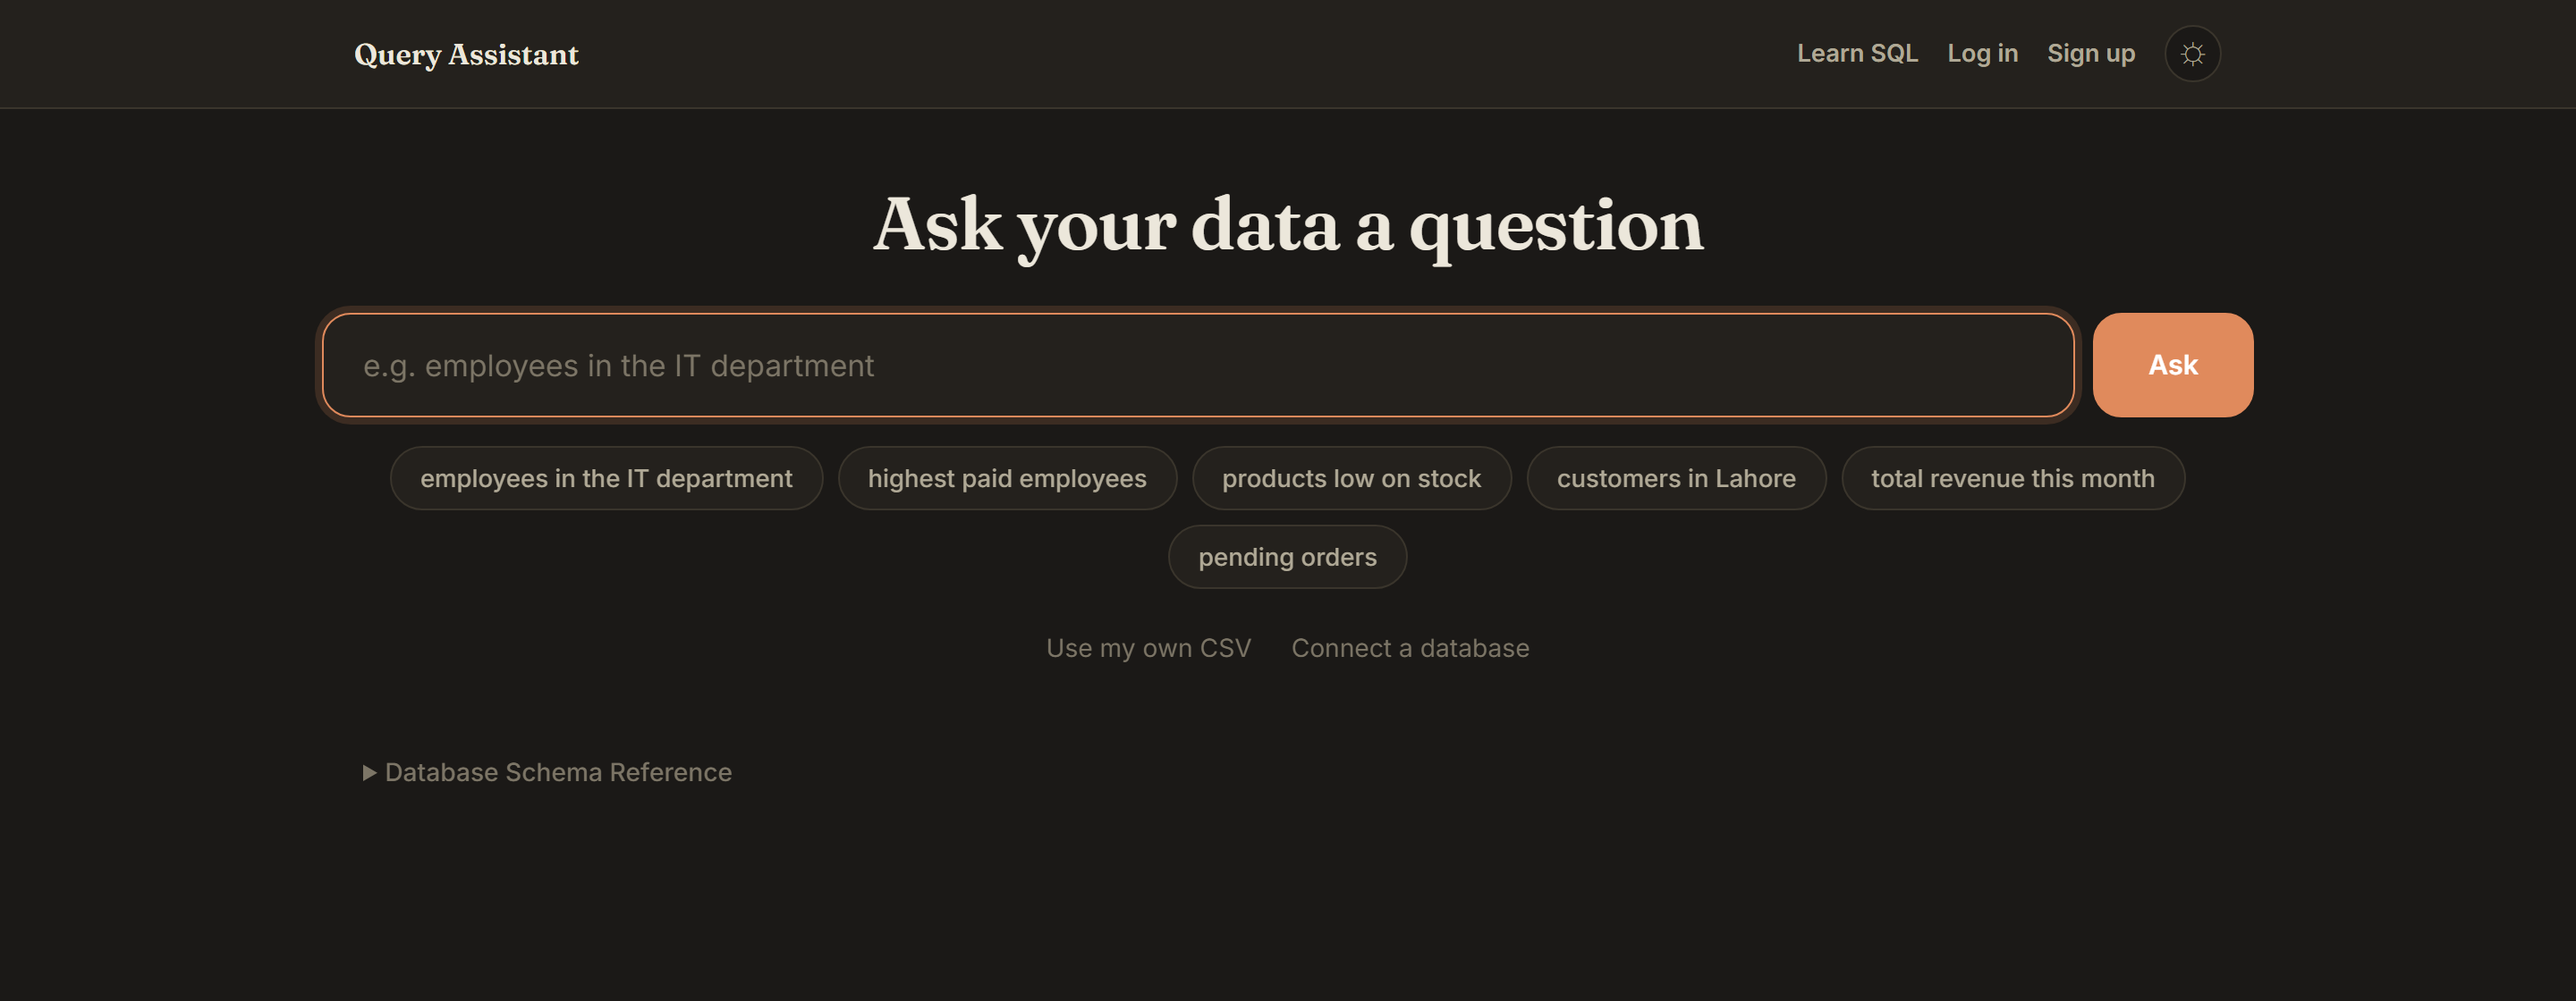
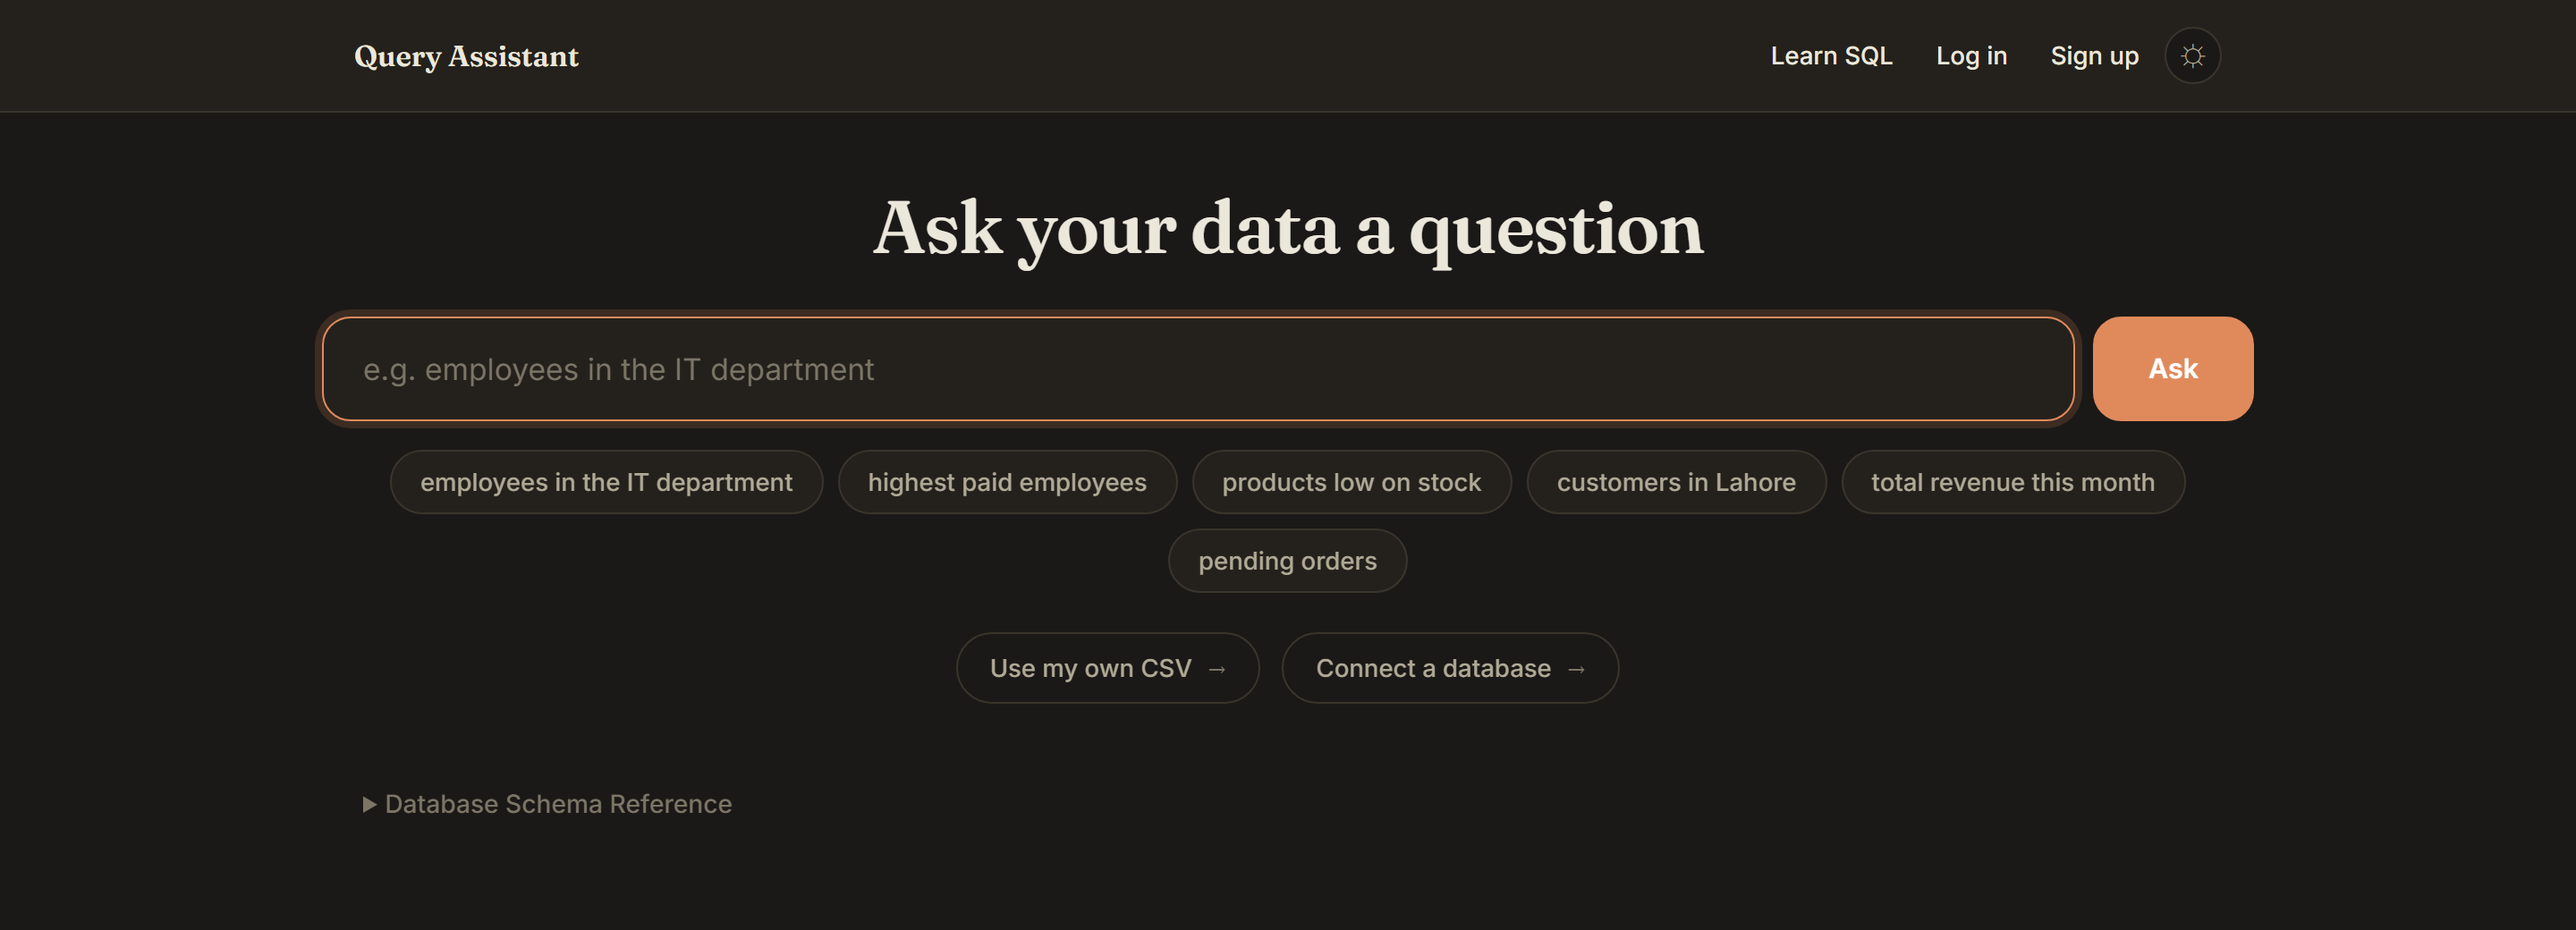
Make the secondary links look like controls again
Both rows of links were failing in the same way: nothing about them said they
could be clicked.

The two data-source links used text-faint, the colour reserved for de-emphasised
labels, and read as disabled text rather than as buttons. They're outlined pills
now. Unfilled and arrow-suffixed, though, because they sit directly under the
example chips and must not be mistaken for more of them — a chip runs a query in
place, these navigate somewhere else, and identical shapes for different actions
is a worse problem than being too quiet.

The nav links were text-soft with zero padding: low contrast and a hit area no
larger than the glyphs. Full-strength colour, real padding, and a hover fill, with
the gap between them reduced since the padding now provides the spacing.

diff --git a/frontend/static/css/style.css b/frontend/static/css/style.css
@@ -749,25 +749,30 @@ h1 + .subtitle {
 .topbar-actions {
     display: flex;
     align-items: center;
-    gap: 16px;
+    /* Small, because the links now carry their own padding for a hit area. */
+    gap: 4px;
     flex-wrap: wrap;
 }
 
 .topbar-link {
     font-family: 'Inter', sans-serif;
-    font-size: 0.85rem;
-    font-weight: 600;
-    color: var(--text-soft);
+    font-size: 0.86rem;
+    font-weight: 500;
+    color: var(--text);
     text-decoration: none;
     background: none;
     border: none;
-    padding: 0;
+    border-radius: 8px;
+    /* A real hit area, so these are comfortable to click rather than
+       pixel-hunted, and the hover has something to fill. */
+    padding: 6px 10px;
     cursor: pointer;
-    transition: color 0.15s;
+    transition: color 0.15s, background 0.15s;
 }
 
 .topbar-link:hover {
-    color: var(--accent);
+    color: var(--accent-hover);
+    background: var(--accent-bg);
 }
 
 .topbar-form {
@@ -944,20 +949,43 @@ body,
     display: flex;
     justify-content: center;
     flex-wrap: wrap;
-    gap: 22px;
+    gap: 12px;
     margin-bottom: 34px;
 }
 
+/* These sit directly under the example chips and must not read as more of them:
+   a chip runs a query in place, these go somewhere else. Hence the arrow and the
+   unfilled background — same family, different job. */
 .source-links a {
-    font-size: 0.88rem;
-    color: var(--text-faint);
+    display: inline-flex;
+    align-items: center;
+    gap: 8px;
+    font-size: 0.86rem;
+    font-weight: 500;
+    color: var(--text-soft);
     text-decoration: none;
-    border-bottom: 1px solid transparent;
-    padding-bottom: 1px;
-    transition: color 0.15s, border-color 0.15s;
+    background: transparent;
+    border: 1px solid var(--border);
+    border-radius: 999px;
+    padding: 8px 18px;
+    transition: color 0.15s, border-color 0.15s, background 0.15s;
+}
+
+.source-links a::after {
+    content: "\2192";
+    font-size: 0.95em;
+    color: var(--text-faint);
+    transition: transform 0.15s, color 0.15s;
 }
 
 .source-links a:hover {
-    color: var(--accent-hover);
-    border-bottom-color: var(--accent-bg);
+    color: var(--text);
+    border-color: var(--accent);
+    background: var(--accent-bg);
 }
+
+.source-links a:hover::after {
+    color: var(--accent);
+    transform: translateX(2px);
+}
+
